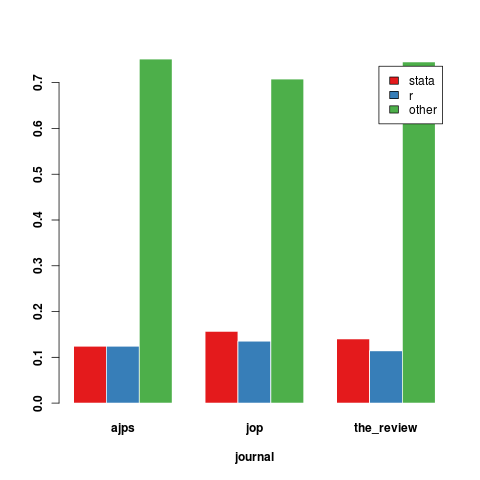
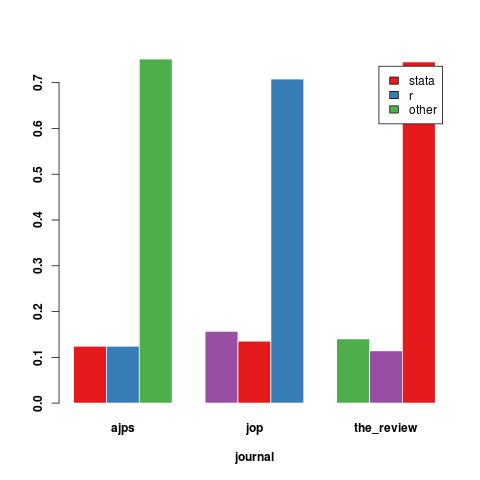
fix

Changed region(s): [[0.4062, 0.1562, 0.6562, 0.8438], [0.6875, 0.25, 0.9062, 0.8438], [0.8438, 0.125, 0.9062, 0.1562]]

diff --git a/modelsof.py b/modelsof.py
@@ -192,12 +192,13 @@ def plot_files():
             dist[journal] = {k: v / total for k, v in counts.items()}
             total = len(datasets) 
             dist1[journal] = {
-                'stata': len(datasets_stata) / total, 
-                'r': len(datasets_r) / total, 
+                'stata': len(datasets_stata - datasets_r) / total, 
+                'r': len(datasets_r - datasets_stata) / total, 
+                'both': len(datasets_stata & datasets_r) / total, 
                 'neither': len(datasets - (datasets_stata | datasets_r)) / total
             }
     plot('files', dist, 'stata r other')
-    plot('files_by_datasets', dist1, 'stata r neither')
+    plot('files_by_datasets', dist1, 'stata r both neither')
 
 def plot_commands():
     dist = collections.OrderedDict() 
@@ -215,7 +216,7 @@ def plot_commands():
                 linear_regression=linear / total, 
                 nonlinear_regression=nonlinear / total, 
                 other=(total - linear - nonlinear) / total
-                ) 
+            ) 
     plot('commands', dist, 'linear_regression nonlinear_regression other')
 
 cmd = {

diff --git a/README.md b/README.md
@@ -22,7 +22,7 @@ Union of `files.csv` and files in `downloads`. Produces `out/jop/all_files.csv` 
 
 6. `python3 modelsof.py plot_files`
 
-Uses `out/**/all_files.csv` to produce distribution counts at `out/files_dist.csv` and `out/files_by_dataset.csv`, then runs plots.R to produce `out/files_dist.png` and `out/files_by_dataset.csv (whether a dataset contains a kind of file)`. 
+Uses `out/**/all_files.csv` to produce distribution counts at `out/files_dist.csv` and `out/files_by_dataset.csv`, then runs plots.R to produce `out/files_dist.png` and `out/files_by_dataset.png` (whether a dataset contains a kind of file). 
 
 7. `python3 modelsof.py plot_commands`
 
